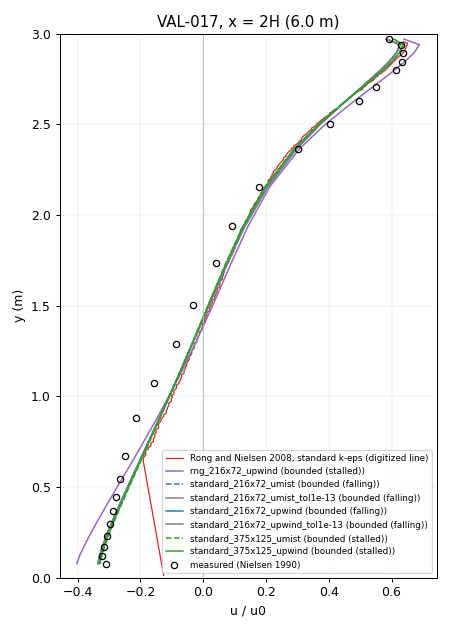
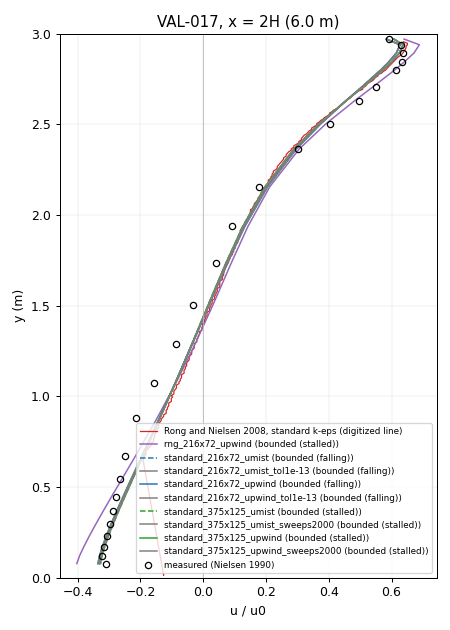
docs: add the fine-grid rows with the k and eps sweep cap raised
Prompt 49: two labelled 375x125 rows (max_iter 2000, everything else
the file's) stop in the same state as the capped pair, the readings and
every line value equal to the test's rounding, so the sweep cap is not
what stalls the fine grid; section 5.5 and question 4 of the report say
so, with the tables regenerated from the records and the line figures
redrawn with the rows.

diff --git a/docs/reports/ecr002_val017_annex20.md b/docs/reports/ecr002_val017_annex20.md
@@ -167,7 +167,9 @@ not measurements; the twenty-iteration timing before the runs gave 0.11 s per ou
 | standard_216x72_umist_tol1e-13 | bounded (falling) | max_simple_iter | 12,000 | 3.87e-11 (12,000), 3.87e-11 | 6.7e-08, 2.1e-15, 6.8e-12, 2.5e-18, 1.7e-05 | 11,145, 2,532, 2,568, 1, - | 0.469, (1.1875, 2.9375) | 498, 562 | 0 | 399.1, 285.2 | 3506, 0.292 | 615f7e9011a637a1 |
 | rng_216x72_upwind | bounded (stalled) | max_simple_iter | 10,000 | 2.26e-07 (10,000), 2.26e-07 | 0.0016, 3.8e-13, 3e-09, 3.2e-18, 0.25 | -, 5,500, 5,534, 1, - | 0.47, (1.4375, 2.9375) | 480, 568 | 0 | 244.8, 195.9 | 3397, 0.340 | a7f3fcc58f9f5b37 |
 | standard_375x125_upwind | bounded (stalled) | max_simple_iter | 10,000 | 1.05e-06 (10,000), 1.05e-06 | 0.011, 2.5e-12, 2.1e-08, 7.8e-19, 4.5 | -, 6,482, 6,540, 1, - | 0.465, (0.636, 2.964) | 840, 1004 | 0 | 415.9, 351.2 | 37904, 3.790 | 58133c4dba3caecf |
+| standard_375x125_upwind_sweeps2000 | bounded (stalled) | max_simple_iter | 10,000 | 1.05e-06 (10,000), 1.05e-06 | 0.011, 2.5e-12, 2.1e-08, 2.2e-18, 4.5 | -, 6,413, 6,449, 1, - | 0.465, (0.636, 2.964) | 843, 1004 | 0 | 558.9, 358.3 | 12005, 1.201 | 3c54b7f9c36922c9 |
 | standard_375x125_umist | bounded (stalled) | max_simple_iter | 10,000 | 1.23e-06 (10,000), 1.23e-06 | 0.016, 2.6e-12, 2.6e-08, 1.6e-18, 5.8 | -, 6,256, 6,314, 1, - | 0.464, (0.636, 2.964) | 850, 961 | 0 | 409.5, 348.0 | 38032, 3.803 | f673061631392c20 |
+| standard_375x125_umist_sweeps2000 | bounded (stalled) | max_simple_iter | 10,000 | 1.23e-06 (10,000), 1.23e-06 | 0.016, 2.6e-12, 2.6e-08, 2.5e-18, 5.8 | -, 6,203, 6,344, 1, - | 0.464, (0.636, 2.964) | 847, 961 | 0 | 551.9, 355.3 | 12144, 1.214 | dcf2fa9266c62442 |
 <!-- tables49 matrix end -->
 
 No run diverged, raised a positivity error or reached the pressure cap (the cap-hits column).
@@ -195,7 +197,9 @@ error over `nu_scale`, never holds, and the records say why:
 | standard_216x72_umist_tol1e-13 | bounded (falling), 12,000 | 1e-13 | 4.93e-05; 2.22; 910 | 3.5e-12, 0.07; 0.9963 | 1.7e-05 (12,000); 6.7e-08, 11,145 | -; 11,160 | -; 11,160 |
 | rng_216x72_upwind | bounded (stalled), 10,000 | - | 4.72e-05; 2.08; 734 | 3.5e-08, 7.4e+02; 0.9978 | 0.25 (10,000); 0.0016, - | -; - | -; - |
 | standard_375x125_upwind | bounded (stalled), 10,000 | - | 4.9e-05; 2.2; 880 | 3.1e-07, 6.4e+03; 0.9988 | 4.5 (10,000); 0.011, - | -; - | -; - |
+| standard_375x125_upwind_sweeps2000 | bounded (stalled), 10,000 | 1e-10 | 4.9e-05; 2.2; 880 | 3.1e-07, 6.3e+03; 0.9988 | 4.5 (10,000); 0.011, - | -; - | -; - |
 | standard_375x125_umist | bounded (stalled), 10,000 | - | 4.9e-05; 2.2; 886 | 3.6e-07, 7.3e+03; 0.9989 | 5.8 (10,000); 0.016, - | -; - | -; - |
+| standard_375x125_umist_sweeps2000 | bounded (stalled), 10,000 | 1e-10 | 4.9e-05; 2.2; 886 | 3.6e-07, 7.3e+03; 0.9989 | 5.8 (10,000); 0.016, - | -; - | -; - |
 <!-- tables49 rule_e end -->
 
 The largest change of nu_t per outer iteration stops falling before the end of each run: it
@@ -233,7 +237,9 @@ the jet was 27):
 | standard_216x72_umist_tol1e-13 | bounded (falling) | 12,000, 3506 | 6.7e-08, 2.1e-15, 6.8e-12, 2.5e-18, 1.7e-05 | 11,145, 2,532, 2,568, 1, - | 2.22 | 376, 832, 910 | 560; 22.6, 2.11, 48.2; 0.24 | 33.2 (29.6, 35.5) | 17.9 (14.5, 21.3) | ecr002_val017_standard_216x72_umist_tol1e-13.png |
 | rng_216x72_upwind | bounded (stalled) | 10,000, 3397 | 0.0016, 3.8e-13, 3e-09, 3.2e-18, 0.25 | -, 5,500, 5,534, 1, - | 2.08 | 320, 689, 734 | 560; 23.5, 2.76, 35.8; 0.21 | 34 (31.5, 34.9) | 19.2 (16.4, 21.9) | ecr002_val017_rng_216x72_upwind.png |
 | standard_375x125_upwind | bounded (stalled) | 10,000, 37904 | 0.011, 2.5e-12, 2.1e-08, 7.8e-19, 4.5 | -, 6,482, 6,540, 1, - | 2.2 | 355, 803, 880 | 973; 12.7, 0.816, 26.2; 0.45 | 18.5 (16.7, 19.2) | 9.55 (7.54, 11.6) | ecr002_val017_standard_375x125_upwind.png |
+| standard_375x125_upwind_sweeps2000 | bounded (stalled) | 10,000, 12005 | 0.011, 2.5e-12, 2.1e-08, 2.2e-18, 4.5 | -, 6,413, 6,449, 1, - | 2.2 | 355, 803, 880 | 973; 12.7, 0.816, 26.2; 0.45 | 18.5 (16.7, 19.2) | 9.55 (7.54, 11.6) | ecr002_val017_standard_375x125_upwind_sweeps2000.png |
 | standard_375x125_umist | bounded (stalled) | 10,000, 38032 | 0.016, 2.6e-12, 2.6e-08, 1.6e-18, 5.8 | -, 6,256, 6,314, 1, - | 2.2 | 363, 809, 886 | 973; 12.7, 0.776, 27; 0.45 | 18.5 (16.7, 19.1) | 9.5 (7.49, 11.6) | ecr002_val017_standard_375x125_umist.png |
+| standard_375x125_umist_sweeps2000 | bounded (stalled) | 10,000, 12144 | 0.016, 2.6e-12, 2.6e-08, 2.5e-18, 5.8 | -, 6,203, 6,344, 1, - | 2.2 | 363, 809, 886 | 973; 12.7, 0.776, 27; 0.45 | 18.5 (16.7, 19.1) | 9.5 (7.49, 11.6) | ecr002_val017_standard_375x125_umist_sweeps2000.png |
 <!-- tables49 converged end -->
 
 Along the ceiling jet between x = H and 2H the coarse grid's first node sits in the log layer and
@@ -291,10 +297,18 @@ where it sits a constant few hundredths of u0 below the data over most of the le
 | standard_375x125_upwind | bounded (stalled) | x = 2H (6.0 m) | 0.076 (0.88) | 0.036 | +0.011 | 0.197 | 0.084 | 25 (24) |
 | standard_375x125_upwind | bounded (stalled) | y = H - h/2 (2.916 m), the ceiling jet | 0.201 (8.60) | 0.069 | +0.013 | 0.176 | 0.082 | 28 (27) |
 | standard_375x125_upwind | bounded (stalled) | y = h/2 (0.084 m), the floor | 0.099 (8.94) | 0.055 | -0.039 | 0.029 | 0.009 | 28 (27) |
+| standard_375x125_upwind_sweeps2000 | bounded (stalled) | x = H (3.0 m) | 0.137 (2.73) | 0.066 | -0.036 | 0.023 | 0.010 | 25 (25) |
+| standard_375x125_upwind_sweeps2000 | bounded (stalled) | x = 2H (6.0 m) | 0.076 (0.88) | 0.036 | +0.011 | 0.197 | 0.084 | 25 (24) |
+| standard_375x125_upwind_sweeps2000 | bounded (stalled) | y = H - h/2 (2.916 m), the ceiling jet | 0.201 (8.60) | 0.069 | +0.013 | 0.176 | 0.082 | 28 (27) |
+| standard_375x125_upwind_sweeps2000 | bounded (stalled) | y = h/2 (0.084 m), the floor | 0.099 (8.94) | 0.055 | -0.039 | 0.029 | 0.009 | 28 (27) |
 | standard_375x125_umist | bounded (stalled) | x = H (3.0 m) | 0.140 (2.73) | 0.067 | -0.035 | 0.020 | 0.009 | 25 (25) |
 | standard_375x125_umist | bounded (stalled) | x = 2H (6.0 m) | 0.076 (0.88) | 0.036 | +0.011 | 0.194 | 0.082 | 25 (24) |
 | standard_375x125_umist | bounded (stalled) | y = H - h/2 (2.916 m), the ceiling jet | 0.188 (8.60) | 0.065 | +0.008 | 0.199 | 0.092 | 28 (27) |
 | standard_375x125_umist | bounded (stalled) | y = h/2 (0.084 m), the floor | 0.102 (8.94) | 0.055 | -0.037 | 0.031 | 0.011 | 28 (27) |
+| standard_375x125_umist_sweeps2000 | bounded (stalled) | x = H (3.0 m) | 0.140 (2.73) | 0.067 | -0.035 | 0.020 | 0.009 | 25 (25) |
+| standard_375x125_umist_sweeps2000 | bounded (stalled) | x = 2H (6.0 m) | 0.076 (0.88) | 0.036 | +0.011 | 0.194 | 0.082 | 25 (24) |
+| standard_375x125_umist_sweeps2000 | bounded (stalled) | y = H - h/2 (2.916 m), the ceiling jet | 0.188 (8.60) | 0.065 | +0.008 | 0.199 | 0.092 | 28 (27) |
+| standard_375x125_umist_sweeps2000 | bounded (stalled) | y = h/2 (0.084 m), the floor | 0.102 (8.94) | 0.055 | -0.037 | 0.031 | 0.011 | 28 (27) |
 <!-- tables49 lines end -->
 
 The figures, one per line, with the measured points, every compared row and the digitized
@@ -342,9 +356,19 @@ lower edge at x = H.
 
 ### 5.5 The fine-grid rows with the sweep cap raised
 
-The two `_sweeps2000` rows of section 5.2, if they finished before this report was committed,
-appear in the tables above under their tag; a row absent from the tables did not finish in the
-build's time and has no record.
+The two `_sweeps2000` rows (375x125, `max_iter` 2000, everything else the file's) are in the
+tables above under their tag. They stop in the same state as the capped pair: the same class,
+the same residual and readings at the cap to three figures (the matrix), the same floor of the
+nu_t step (the condition (e) table), and every line value within the rounding the test pins of
+the capped row's (section 5.4's table; the largest difference over the four lines is below 2e-6
+u/u0 for either scheme). The k solve, free of the 500-sweep cap, takes several hundred sweeps
+more on average and still reaches 2,000 at a few dozen outer iterations (the sweeps column, and
+the scalar cap-hit counts in the records). So the sweep cap is not what stalls the fine grid:
+the fine grid converges at about half the residual per thousand outer iterations under either
+cap, and reaches the file's cap with an estimated iteration error of a hundredth of u0 (the
+matrix's (a) column), which is what the grid comparison of section 5.4 carries. Where the k
+and eps solves do reach their cap the fields do not move by more than that rounding, which is
+the answer issue 58 was waiting for on this case.
 
 ## 6. Predictions against measurement
 
@@ -352,8 +376,8 @@ build's time and has no record.
 | Prediction | Measured | Holds |
 |---|---|---|
 | (a) both schemes converge on both grids | standard_216x72_upwind: bounded (falling); standard_216x72_umist: bounded (falling); standard_375x125_upwind: bounded (stalled); standard_375x125_umist: bounded (stalled) | no |
-| (b) the jet within 0.1 u0 up to x/H 2 | standard_216x72_upwind (bounded (falling)): 0.074 at 0.01 m; standard_216x72_upwind_tol1e-13 (bounded (falling)): 0.074 at 0.01 m; standard_216x72_umist (bounded (falling)): 0.073 at 0.01 m; standard_216x72_umist_tol1e-13 (bounded (falling)): 0.073 at 0.01 m; rng_216x72_upwind (bounded (stalled)): 0.073 at 0.01 m; standard_375x125_upwind (bounded (stalled)): 0.081 at 0.01 m; standard_375x125_umist (bounded (stalled)): 0.081 at 0.01 m | yes |
-| (c) the floor's sign right everywhere, its departure above the jet's | standard_216x72_upwind (bounded (falling)): 22 of 28 signs, floor 0.086 against jet 0.179; standard_216x72_upwind_tol1e-13 (bounded (falling)): 22 of 28 signs, floor 0.086 against jet 0.179; standard_216x72_umist (bounded (falling)): 22 of 28 signs, floor 0.088 against jet 0.193; standard_216x72_umist_tol1e-13 (bounded (falling)): 22 of 28 signs, floor 0.088 against jet 0.193; rng_216x72_upwind (bounded (stalled)): 22 of 28 signs, floor 0.120 against jet 0.232; standard_375x125_upwind (bounded (stalled)): 21 of 28 signs, floor 0.099 against jet 0.201; standard_375x125_umist (bounded (stalled)): 21 of 28 signs, floor 0.102 against jet 0.188 | no |
+| (b) the jet within 0.1 u0 up to x/H 2 | standard_216x72_upwind (bounded (falling)): 0.074 at 0.01 m; standard_216x72_upwind_tol1e-13 (bounded (falling)): 0.074 at 0.01 m; standard_216x72_umist (bounded (falling)): 0.073 at 0.01 m; standard_216x72_umist_tol1e-13 (bounded (falling)): 0.073 at 0.01 m; rng_216x72_upwind (bounded (stalled)): 0.073 at 0.01 m; standard_375x125_upwind (bounded (stalled)): 0.081 at 0.01 m; standard_375x125_upwind_sweeps2000 (bounded (stalled)): 0.081 at 0.01 m; standard_375x125_umist (bounded (stalled)): 0.081 at 0.01 m; standard_375x125_umist_sweeps2000 (bounded (stalled)): 0.081 at 0.01 m | yes |
+| (c) the floor's sign right everywhere, its departure above the jet's | standard_216x72_upwind (bounded (falling)): 22 of 28 signs, floor 0.086 against jet 0.179; standard_216x72_upwind_tol1e-13 (bounded (falling)): 22 of 28 signs, floor 0.086 against jet 0.179; standard_216x72_umist (bounded (falling)): 22 of 28 signs, floor 0.088 against jet 0.193; standard_216x72_umist_tol1e-13 (bounded (falling)): 22 of 28 signs, floor 0.088 against jet 0.193; rng_216x72_upwind (bounded (stalled)): 22 of 28 signs, floor 0.120 against jet 0.232; standard_375x125_upwind (bounded (stalled)): 21 of 28 signs, floor 0.099 against jet 0.201; standard_375x125_upwind_sweeps2000 (bounded (stalled)): 21 of 28 signs, floor 0.099 against jet 0.201; standard_375x125_umist (bounded (stalled)): 21 of 28 signs, floor 0.102 against jet 0.188; standard_375x125_umist_sweeps2000 (bounded (stalled)): 21 of 28 signs, floor 0.102 against jet 0.188 | no |
 | (d) schemes differ by under half the larger distance from the data, every line | schemes, 216x72 x3: 0.009 against 0.5 x 0.126; schemes, 216x72 x6: 0.004 against 0.5 x 0.075; schemes, 216x72 y2916: 0.050 against 0.5 x 0.193; schemes, 216x72 y0084: 0.008 against 0.5 x 0.088; schemes, 375x125 x3: 0.006 against 0.5 x 0.140; schemes, 375x125 x6: 0.003 against 0.5 x 0.076; schemes, 375x125 y2916: 0.029 against 0.5 x 0.201; schemes, 375x125 y0084: 0.006 against 0.5 x 0.102 | yes |
 | (e) grids differ by less than either differs from the data, every line | grids, upwind x3: 0.030 against 0.123; grids, upwind x6: 0.024 against 0.074; grids, upwind y2916: 0.122 against 0.179; grids, upwind y0084: 0.014 against 0.086; grids, umist x3: 0.026 against 0.126; grids, umist x6: 0.023 against 0.075; grids, umist y2916: 0.157 against 0.188; grids, umist y0084: 0.013 against 0.088 | yes |
 <!-- tables49 predictions end -->
@@ -408,10 +432,13 @@ Questions, not decisions.
    tolerance, and under neither change alone. Which scale, and which tolerance, is a change to
    ADR-012 E and `src/stopping.py` for Alex; until then the VAL-017 test pins the run's record at
    the cap and expects its convergence clause to fail (strict xfail).
-4. **The k and eps sweep cap.** On 375x125 the implicit solves reach `max_iter` 500 from
-   mid-run (issue 58's open decision), and from there the residual stalls where on 216x72 it
-   keeps falling. The case keeps the product's value; whether the case or the product raises
-   it is Alex's, and the product's 320x120 grid is as fine as this one.
+4. **The k and eps sweep cap, and the fine grid's slowness.** On 375x125 the implicit solves
+   reach `max_iter` 500 from mid-run (issue 58's open decision); with the cap at 2,000 the
+   fields and the readings are the same to the test's rounding (section 5.5), so the cap costs
+   nothing on this case and the decision can rest on that. What the fine grid does show is a
+   coupled iteration that converges at half the rate per outer iteration of the coarse one and
+   is far from the rule's stop at 10,000 iterations; the product's 320x120 grid is as fine. A
+   cap of several times 10,000, or a convergence aid, is a question for step 8.
 5. **The test's cost.** The VAL-017 test runs the case to its cap, about eighteen minutes alone
    on this machine, in the validation tier that CI runs. Does it stay there, or become a harness
    row as the 80x80 cavity and VAL-018 are?
